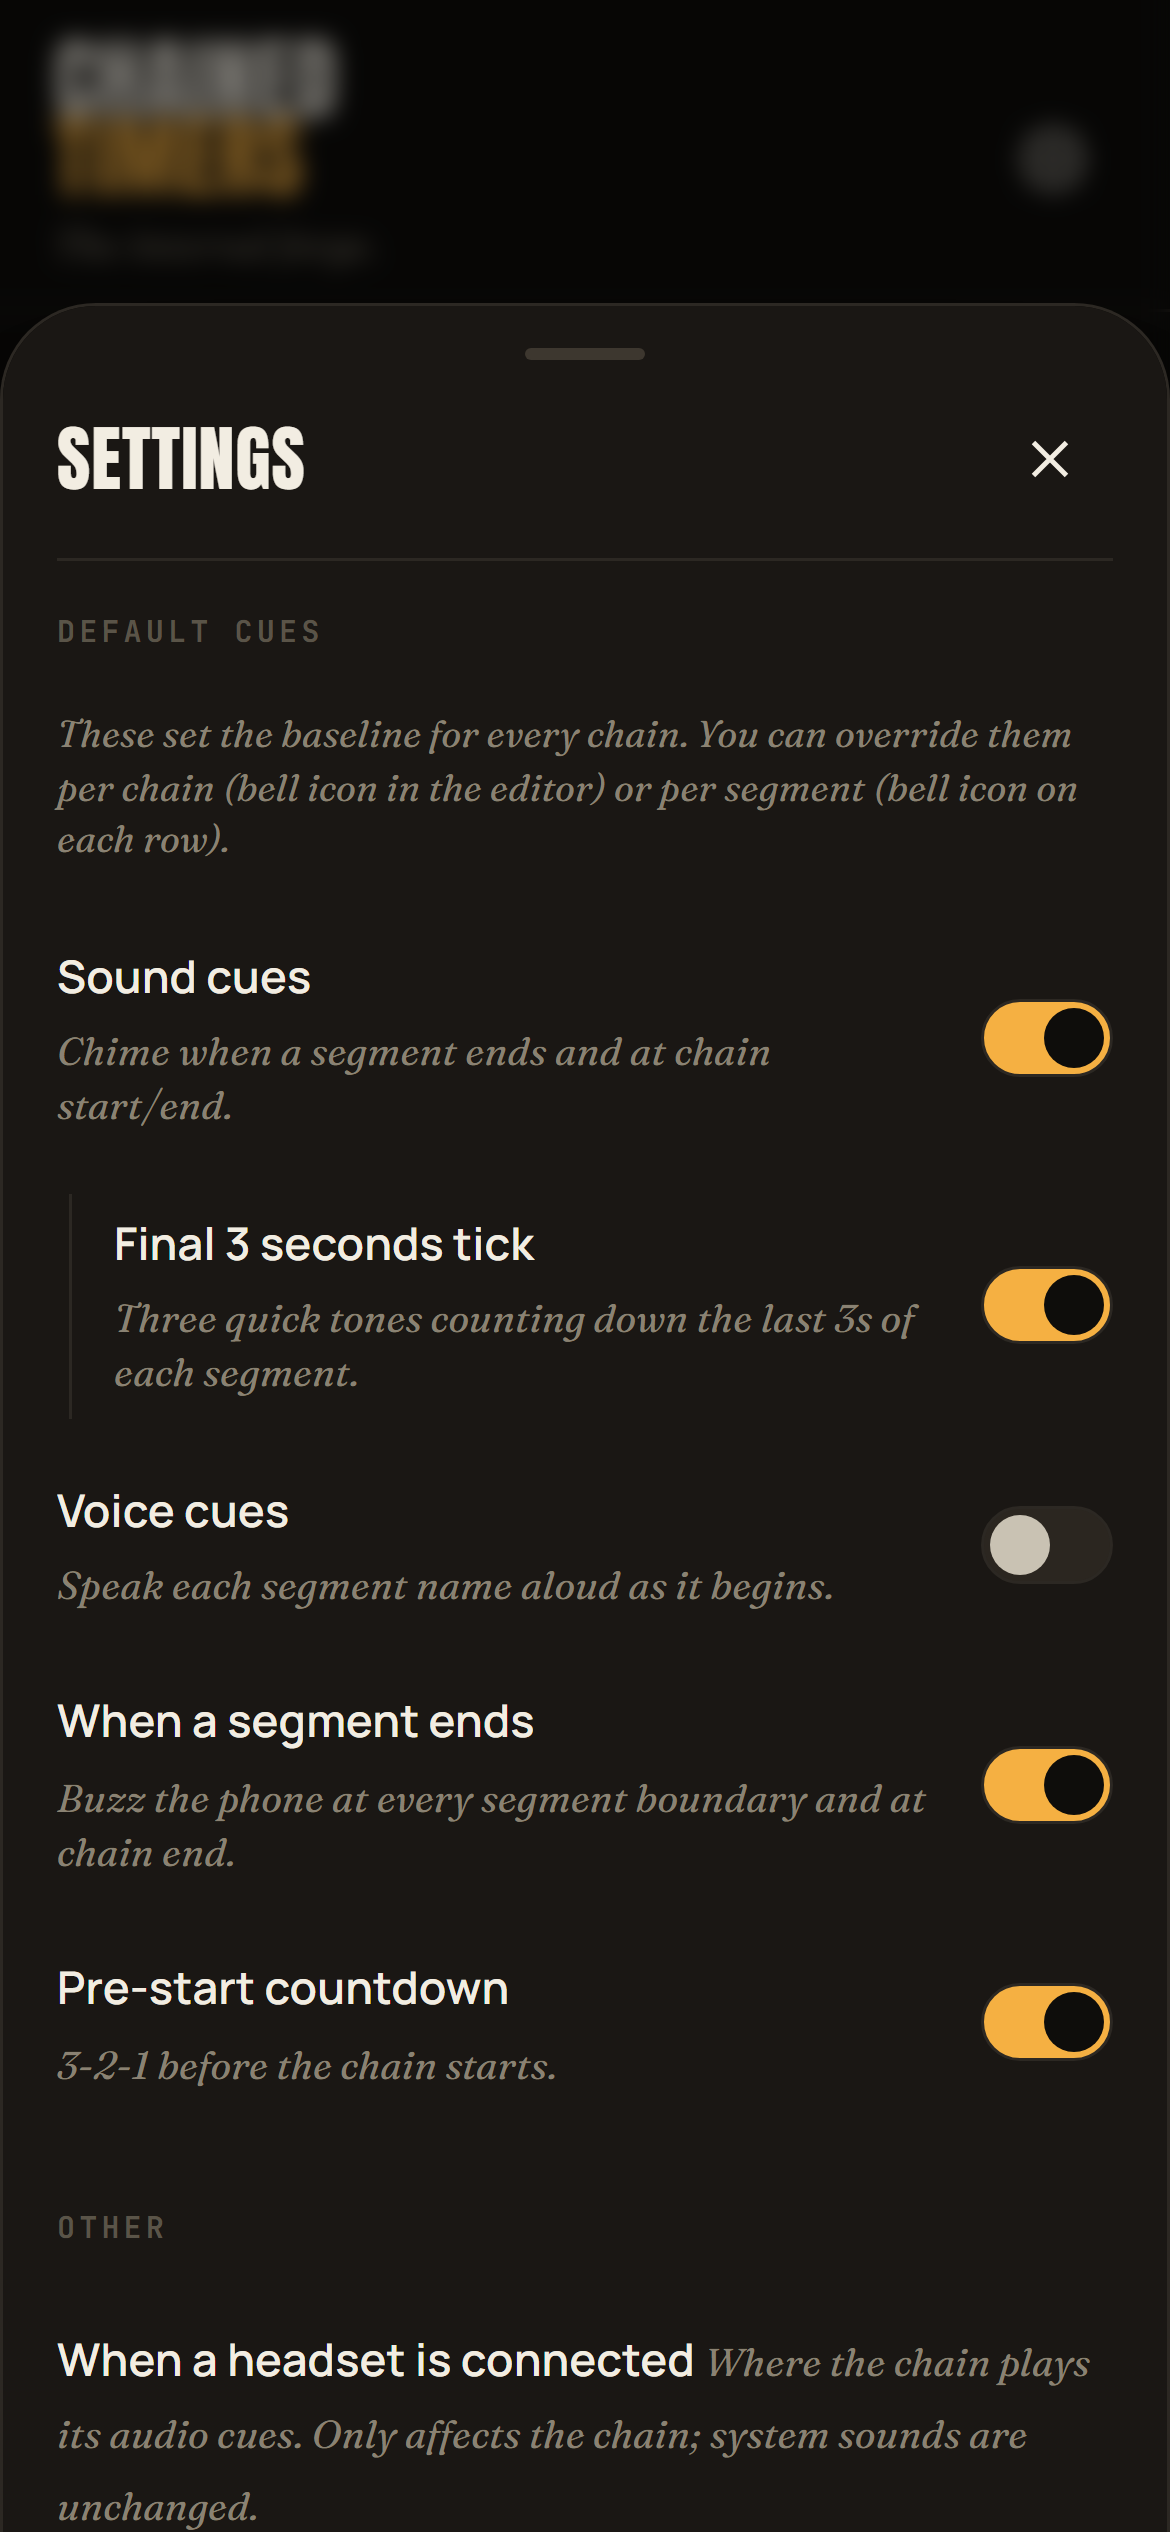
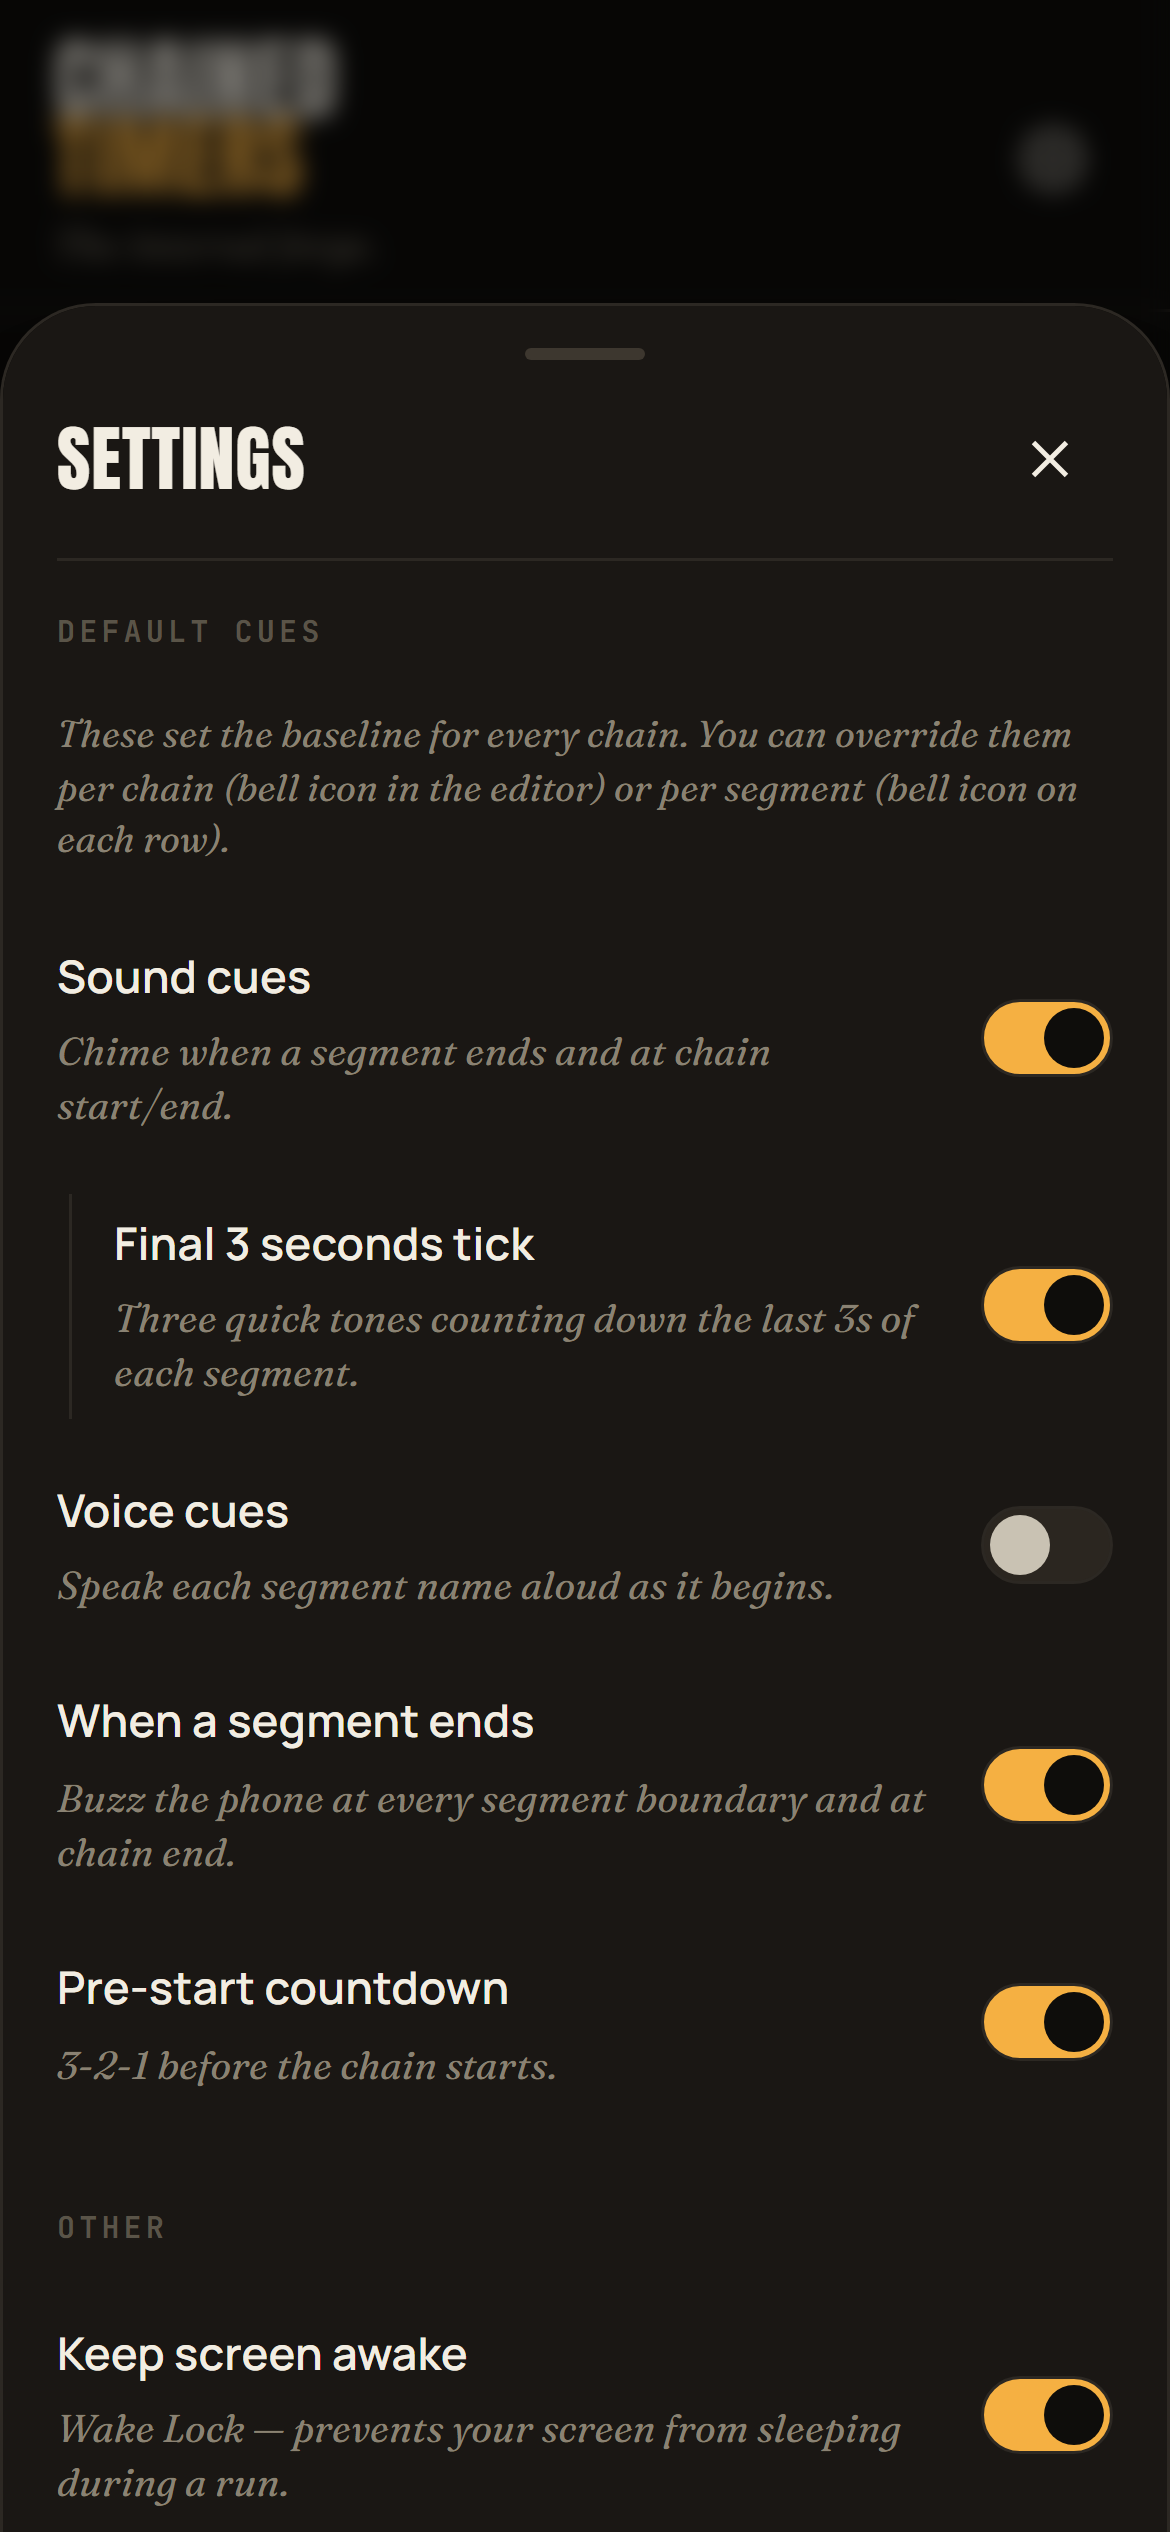
v1.3.8 -- every chain cue honors headset routing
User pushback on v1.3.7: only voice respected the audioRoute
setting; chime/finalThree/finale stayed on USAGE_ALARM (both
speakers). The user's clear directive: ALL audio from the app
should route to the same place. A split where voice goes to
headset but chimes leak to speaker is confusing UX -- users
won't understand it.

Also: the pill itself was visible on web/PWA where it was
inert. The user called that out -- "On browsers don't show
the pill if the behavior won't be influenced by it."

Pool flip: SoundPool -> MediaPlayer pool
  SoundPool has no setPreferredDevice -- AudioRouting (the
  interface that exposes setPreferredDevice) is implemented by
  MediaPlayer / AudioRecord / AudioTrack but not SoundPool.
  Switched chime/finalThree/finale to MediaPlayer instances
  that are pre-prepared once at ensureMediaPlayers() and
  replayed via seekTo(0)+start() between plays. Per-shot
  latency after the first warmup play stays in the ~15ms range
  -- same alarm-stream USAGE_ALARM AudioAttributes for DND
  bypass, same low-latency one-shot behaviour we relied on
  SoundPool for. The pool releases on stopRun / onDestroy /
  pre-deferred-stopSelf paths.

  Each player carries its own setPreferredDevice binding so
  v1.3.7's "Headset only / Both / Speaker only" choice now
  applies to every chain audio cue, not just voice. Voice
  continues to use a per-play MediaPlayer (each fire creates a
  fresh instance) so it picks up audioRoute automatically.

Live-rebind mid-chain
[…]

Changed region(s): [[0.0308, 0.9048, 0.9538, 1.0]]

diff --git a/js/app.js b/js/app.js
@@ -2170,8 +2170,16 @@ const UI = {
 
   // Reflect the persisted audio-route value onto the 3-segment pill.
   // Stored value is one of 'headset' | 'both' | 'speaker'; any unknown
-  // value collapses to 'headset' (the default).
+  // value collapses to 'headset' (the default). The whole row is hidden
+  // on non-native platforms — browsers route through whatever the OS
+  // picked as the default output and we don't have the permission scope
+  // (setSinkId needs persistent device-selection) to override that.
+  // Showing the pill on web would be lying about what the setting does.
   _syncAudioRoutePill() {
+    const row = document.getElementById('setting-row-route');
+    if (!row) return;
+    row.hidden = !window.ChainedNative?.isNative;
+    if (row.hidden) return;
     const cur = Store.getSettings().audioRoute || 'headset';
     const validCur = ['headset', 'both', 'speaker'].includes(cur) ? cur : 'headset';
     const pill = document.getElementById('setting-route');

diff --git a/index.html b/index.html
@@ -30,7 +30,7 @@
   <link rel="preconnect" href="https://fonts.gstatic.com" crossorigin />
   <link href="https://fonts.googleapis.com/css2?family=Anton&family=Fraunces:ital,opsz,wght@0,9..144,400;0,9..144,600;1,9..144,400;1,9..144,600&family=JetBrains+Mono:wght@300;400;500;700&family=Manrope:wght@300;400;500;600;700&display=swap" rel="stylesheet" />
 
-  <link rel="stylesheet" href="./css/styles.css?v=1.3.7" />
+  <link rel="stylesheet" href="./css/styles.css?v=1.3.8" />
 </head>
 <body data-view="library">
 
@@ -513,8 +513,8 @@
 
   </div>
 
-  <script src="./js/app.js?v=1.3.7"></script>
+  <script src="./js/app.js?v=1.3.8"></script>
   <!-- Capacitor injects window.Capacitor in native builds; this file is a no-op in browsers -->
-  <script src="./js/native.js?v=1.3.7"></script>
+  <script src="./js/native.js?v=1.3.8"></script>
 </body>
 </html>

diff --git a/sw.js b/sw.js
@@ -1,5 +1,5 @@
 /* Chained Timers — Service Worker */
-const CACHE = 'chained-timers-v1.3.7';
+const CACHE = 'chained-timers-v1.3.8';
 const ASSETS = [
   './',
   './index.html',

diff --git a/android/app/src/main/java/com/mayerwin/chainedtimers/ChainTimerService.java b/android/app/src/main/java/com/mayerwin/chainedtimers/ChainTimerService.java
@@ -265,15 +265,21 @@ public class ChainTimerService extends Service {
 
     private final Handler tickHandler = new Handler(Looper.getMainLooper());
     private final Runnable tickRunnable = this::onTick;
-    // SoundPool plays chime / finale / tick directly through the Media
-    // stream with ~10–50 ms latency. The notification-channel sound
-    // pipeline takes 200–500 ms (more on emulators) which makes the
-    // chain-end finale visibly lag behind the SoundPool-played 3-second
-    // ticks; routing all three through SoundPool keeps the cadence tight.
-    private android.media.SoundPool soundPool;
-    private int chimeSoundId      = 0;
-    private int finaleSoundId     = 0;
-    private int finalThreeSoundId = 0;
+    // Pre-prepared MediaPlayer pool for chime / finalThree / finale.
+    // v1.3.7 and earlier used SoundPool here because of its sub-50ms
+    // play latency for short one-shots — but SoundPool has NO
+    // setPreferredDevice, which meant the user's "headset only" routing
+    // setting silently leaked these cues to the speaker even when
+    // headphones were plugged in. MediaPlayer DOES support per-instance
+    // setPreferredDevice (via the AudioRouting interface, API 23+),
+    // so we pre-create + prepare one player per sound at chain start
+    // and replay via seekTo(0)+start(). Per-shot latency stays in the
+    // ~15ms range after prepare because we never tear them down between
+    // plays. Same USAGE_ALARM AudioAttributes as before, so DND bypass
+    // and alarm-stream classification are preserved.
+    private android.media.MediaPlayer chimePlayer;
+    private android.media.MediaPlayer finalThreePlayer;
+    private android.media.MediaPlayer finalePlayer;
     // Mirrors the user's master "Sound" toggle. Gates SoundPool playback
     // so the service respects the same Settings switch as the in-app
     // Web Audio path.
@@ -311,7 +317,7 @@ public class ChainTimerService extends Service {
         }
 
         ensureChannel();
-        ensureSoundPool();
+        ensureMediaPlayers();
 
         // Refresh in-memory state from the intent. JS sends the full plan
         // on every START/UPDATE/COMPLETE so the service can self-advance
@@ -353,7 +359,14 @@ public class ChainTimerService extends Service {
         }
         String routeExtra = intent.getStringExtra(EXTRA_AUDIO_ROUTE);
         if (routeExtra != null && (routeExtra.equals("headset") || routeExtra.equals("both") || routeExtra.equals("speaker"))) {
+            String previousRoute = audioRoute;
             audioRoute = routeExtra;
+            // Live-rebind the cue MediaPlayer pool to the freshly-resolved
+            // preferred device. Voice picks up audioRoute per-play (each
+            // play creates a new MediaPlayer) so no extra work is needed
+            // there; the cue pool is long-lived and needs an explicit
+            // re-bind when the user flips the routing pill mid-chain.
+            if (!previousRoute.equals(audioRoute)) applyAudioRouteToCuePool();
         }
 
         if (ACTION_COMPLETE.equals(action)) {
@@ -579,6 +592,7 @@ public class ChainTimerService extends Service {
         running = false;
         tickHandler.removeCallbacks(tickRunnable);
         releaseVoicePlayer();
+        releaseCueMediaPlayers();
         releaseWakeLock();
         stopForeground(STOP_FOREGROUND_REMOVE);
         stopSelf();
@@ -1055,46 +1069,91 @@ public class ChainTimerService extends Service {
         ChainTimerPlugin.deliverChainCommand(cmd);
     }
 
-    private void ensureSoundPool() {
-        if (soundPool != null) return;
+    private void ensureMediaPlayers() {
+        if (chimePlayer != null) return; // pool already up
         try {
-            // USAGE_ALARM routes playback through the ALARM stream, which is
-            // never muted by the ringer being silent, by DND/"Do Not Disturb"
-            // mode, or by the Notification-stream volume slider. This matches
-            // the user's mental model: this is an interval timer, it behaves
-            // like an alarm clock — when a segment boundary fires, the chime
-            // must ring even if the phone is on silent or in DND, with zero
-            // user intervention (no per-channel "Override DND" toggle, no
-            // Notification-policy permission prompt). Switching this away
-            // from USAGE_NOTIFICATION_EVENT was the fix for chains going
-            // silent in DND and the user thinking notifications were broken
-            // even after disabling DND (the real problem was just that the
-            // last cue silently passed during DND).
-            AudioAttributes attrs = new AudioAttributes.Builder()
-                .setUsage(AudioAttributes.USAGE_ALARM)
-                .setContentType(AudioAttributes.CONTENT_TYPE_SONIFICATION)
-                .build();
-            soundPool = new android.media.SoundPool.Builder()
-                .setMaxStreams(2)
-                .setAudioAttributes(attrs)
-                .build();
-            chimeSoundId      = soundPool.load(this, R.raw.chime,   1);
-            finaleSoundId     = soundPool.load(this, R.raw.finale,  1);
-            finalThreeSoundId = soundPool.load(this, R.raw.final3,  1);
-        } catch (Throwable ignored) {
-            soundPool = null;
-            chimeSoundId = finaleSoundId = finalThreeSoundId = 0;
+            chimePlayer      = createPreparedPlayer(R.raw.chime);
+            finalThreePlayer = createPreparedPlayer(R.raw.final3);
+            finalePlayer     = createPreparedPlayer(R.raw.finale);
+            applyAudioRouteToCuePool();
+        } catch (Throwable t) {
+            releaseCueMediaPlayers();
         }
     }
 
-    private void playSample(int soundId) {
-        if (!soundEnabled || soundPool == null || soundId == 0) return;
-        try { soundPool.play(soundId, 1f, 1f, 1, 0, 1f); } catch (Throwable ignored) {}
+    /**
+     * Build a MediaPlayer for an R.raw resource, in prepared state, with
+     * the alarm-stream AudioAttributes that keep our DND-bypass story
+     * intact:
+     *
+     *   USAGE_ALARM routes playback through the ALARM stream, which is
+     *   never muted by silent mode, DND, or the Notification-stream
+     *   volume slider. This is the "this is a timer, ring like an alarm"
+     *   contract from v1.3.3 -- when a segment boundary fires, the
+     *   chime / 3-2-1 / finale ring even on silent / DND. CONTENT_TYPE_-
+     *   SONIFICATION marks the audio as a short cue, not music.
+     *
+     * MediaPlayer.create returns a prepared player; we set attributes
+     * AFTER prepare in case the system wants to re-bind. Throws on
+     * any error so the caller can release the partial pool.
+     */
+    private android.media.MediaPlayer createPreparedPlayer(int resId) throws Exception {
+        android.media.MediaPlayer mp = android.media.MediaPlayer.create(this, resId);
+        if (mp == null) throw new Exception("MediaPlayer.create returned null for resId=" + resId);
+        AudioAttributes attrs = new AudioAttributes.Builder()
+            .setUsage(AudioAttributes.USAGE_ALARM)
+            .setContentType(AudioAttributes.CONTENT_TYPE_SONIFICATION)
+            .build();
+        try { mp.setAudioAttributes(attrs); } catch (Throwable ignored) {}
+        // Tag the player as "completed" — sits in PlaybackCompleted state
+        // ready for seekTo(0)+start() to replay.
+        return mp;
     }
 
-    private void playChime()      { playSample(chimeSoundId); }
-    private void playFinale()     { playSample(finaleSoundId); }
-    private void playFinalThree() { playSample(finalThreeSoundId); }
+    /**
+     * Re-bind every cue MediaPlayer to the currently-resolved preferred
+     * output device. Called at pool creation, on every START/UPDATE
+     * intent (so a user flipping the audioRoute pill mid-chain takes
+     * effect on the next play), and after the user changes audio devices
+     * physically (unhandled — we just rebind on next intent).
+     */
+    private void applyAudioRouteToCuePool() {
+        android.media.AudioDeviceInfo preferred = pickPreferredOutputDevice(audioRoute);
+        // null is fine here — passing null clears any preference and lets
+        // USAGE_ALARM's default routing win (which is "all alarm outputs"
+        // a.k.a. the v1.3.6 "Both" mode).
+        if (chimePlayer      != null) try { chimePlayer.setPreferredDevice(preferred); }      catch (Throwable ignored) {}
+        if (finalThreePlayer != null) try { finalThreePlayer.setPreferredDevice(preferred); } catch (Throwable ignored) {}
+        if (finalePlayer     != null) try { finalePlayer.setPreferredDevice(preferred); }     catch (Throwable ignored) {}
+    }
+
+    /**
+     * Single-shot replay. After PlaybackCompleted, seekTo(0)+start()
+     * replays from the beginning at low latency (~15ms after the first
+     * play warms the audio buffer). If the player is somehow still in
+     * the playing state from a previous fire (e.g. a 3.2s finalThree
+     * still tailing when the next boundary lands), we restart from 0 —
+     * the user is more likely to want the new cue to be sharp than to
+     * wait for the previous one to finish.
+     */
+    private void playCueSound(android.media.MediaPlayer mp) {
+        if (!soundEnabled || mp == null) return;
+        try {
+            if (mp.isPlaying()) mp.pause();
+            mp.seekTo(0);
+            mp.start();
+        } catch (Throwable ignored) {}
+    }
+
+    private void playChime()      { playCueSound(chimePlayer); }
+    private void playFinale()     { playCueSound(finalePlayer); }
+    private void playFinalThree() { playCueSound(finalThreePlayer); }
+
+    private void releaseCueMediaPlayers() {
+        if (chimePlayer != null)      { try { chimePlayer.release(); }      catch (Throwable ignored) {} chimePlayer = null; }
+        if (finalThreePlayer != null) { try { finalThreePlayer.release(); } catch (Throwable ignored) {} finalThreePlayer = null; }
+        if (finalePlayer != null)     { try { finalePlayer.release(); }     catch (Throwable ignored) {} finalePlayer = null; }
+    }
 
     /**
      * Play the pre-rendered voice WAV for the given segment index, if
@@ -1274,11 +1333,7 @@ public class ChainTimerService extends Service {
         tickHandler.removeCallbacks(tickRunnable);
         releaseWakeLock();
         releaseVoicePlayer();
-        if (soundPool != null) {
-            try { soundPool.release(); } catch (Throwable ignored) {}
-            soundPool = null;
-            chimeSoundId = finaleSoundId = finalThreeSoundId = 0;
-        }
+        releaseCueMediaPlayers();
         super.onDestroy();
     }
 
